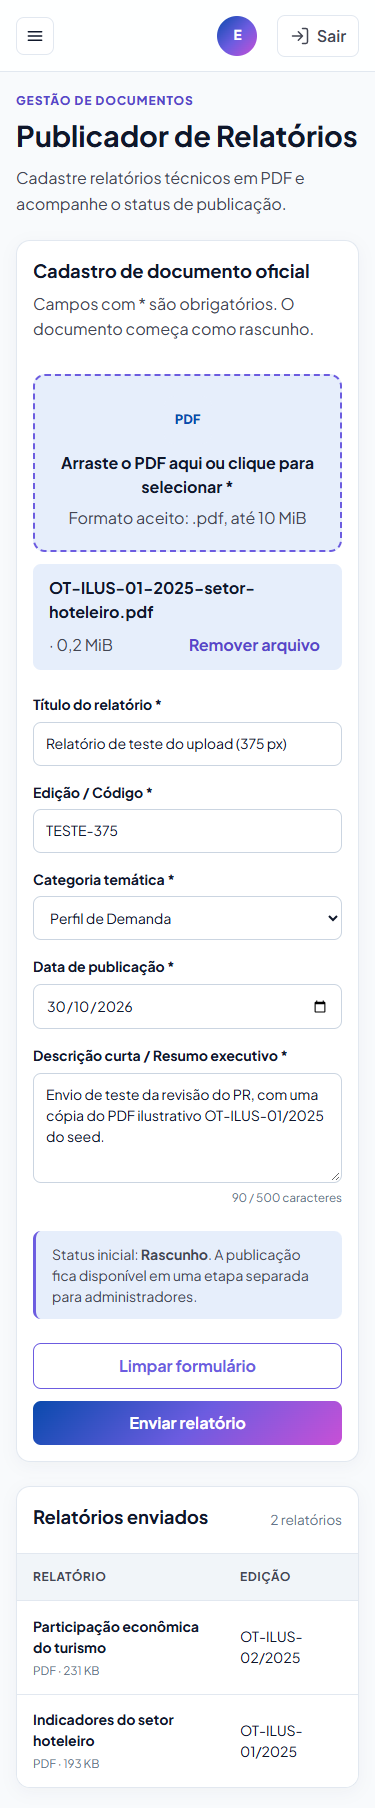
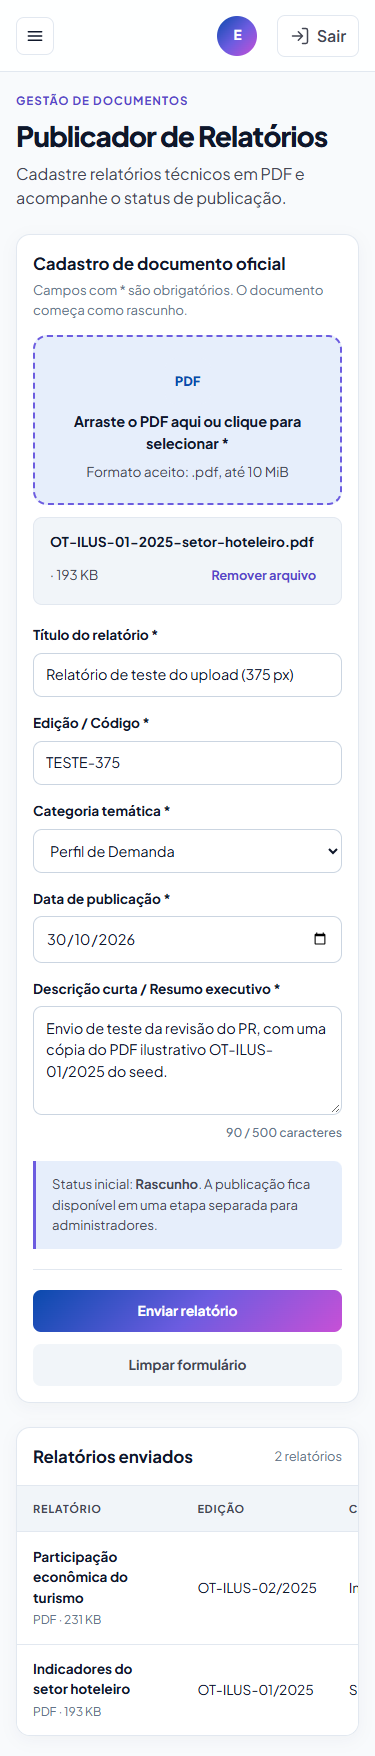
docs: atualiza as evidências do PR #222

diff --git a/docs/evidencias/pr-222/README.md b/docs/evidencias/pr-222/README.md
@@ -1,13 +1,13 @@
 # Evidências do PR #222: upload de relatórios no painel
 
-As capturas foram feitas na branch do PR, já com a `develop` atual mesclada (Telas 6 e 7 do #220 e do #221). O teste foi contra a API real, com Postgres e o seed, numa sessão do perfil editor, no Chrome, em 375 e 1280 px. Os dois envios bem-sucedidos usam uma cópia do PDF ilustrativo `OT-ILUS-01/2025` do seed, com o título "Relatório de teste do upload". Nenhuma página rola na horizontal. O único erro no console é o `400` do PDF falso, que é esperado.
+As capturas foram feitas na branch do PR, já com a `develop` atual mesclada (Telas 6 e 7 do #220 e do #221) e com o visual alinhado a essas telas (`c107ef7`). O teste foi contra a API real, com Postgres e o seed, numa sessão do perfil editor, no Chrome, em 375 e 1280 px. Os dois envios bem-sucedidos usam uma cópia do PDF ilustrativo `OT-ILUS-01/2025` do seed, com o título "Relatório de teste do upload". Nenhuma página rola na horizontal. O único erro no console é o `400` do PDF falso, que é esperado.
 
 | Arquivo | O que mostra |
 |---|---|
 | `relatorios-inicial-375.png`, `relatorios-inicial-1280.png` | `/admin/relatorios` com a área de arrastar ou selecionar, os campos, o contador de 500 caracteres e a lista com os dois relatórios publicados do seed |
 | `relatorios-erro-tamanho-375.png`, `relatorios-erro-tamanho-1280.png` | Arquivo de 11 MiB recusado no front ("O arquivo excede o limite de 10 MiB."), sem chamar a API |
 | `relatorios-erro-api-375.png`, `relatorios-erro-api-1280.png` | Arquivo `.pdf` cujo conteúdo não é PDF: passa no front, a API responde `400` "Arquivo PDF obrigatório" e os campos continuam preenchidos |
-| `relatorios-preenchido-375.png`, `relatorios-preenchido-1280.png` | PDF válido selecionado (nome e tamanho, com "Remover arquivo") e todos os campos preenchidos |
+| `relatorios-preenchido-375.png`, `relatorios-preenchido-1280.png` | PDF válido selecionado (nome e tamanho em KB, com "Remover arquivo") e todos os campos preenchidos |
 | `relatorios-enviado-375.png`, `relatorios-enviado-1280.png` | Depois do `201`: mensagem de sucesso, formulário limpo e o relatório novo no topo da lista como rascunho |
 
 Também conferido: um `.txt` é recusado no front ("Selecione um arquivo PDF válido."), o formulário vazio não chega a chamar a API e os relatórios enviados não aparecem em `/api/relatorios`, a rota pública.
